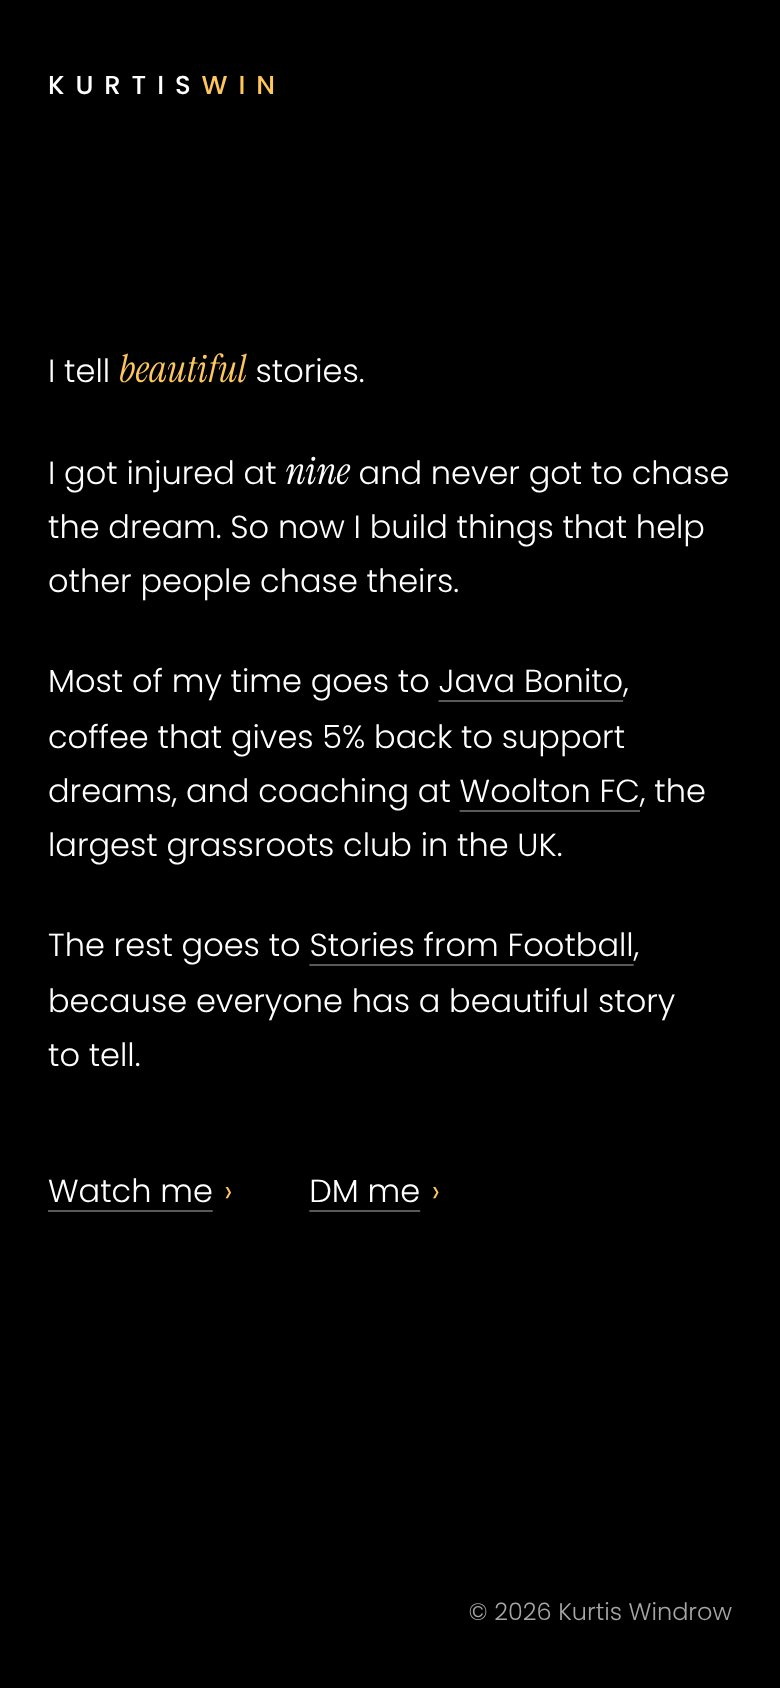
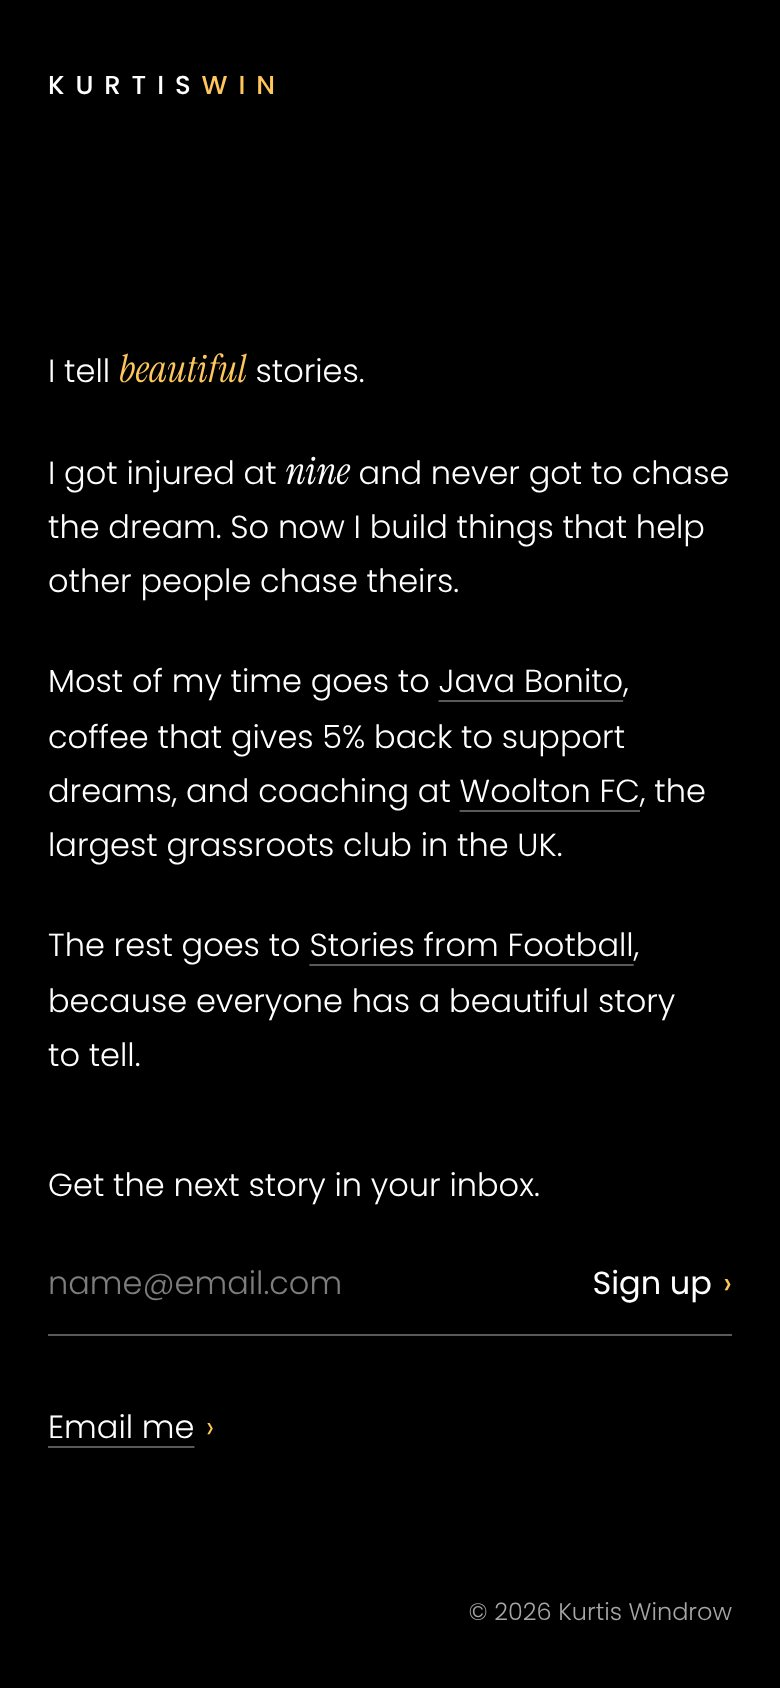
Simple letter idea: email sign-up and Email me link
Claude-Session: https://claude.ai/code/session_01YWeD3rSu7rVPaxhd9cXvfE

diff --git a/kurtis-site/design-board/idea-simple.html b/kurtis-site/design-board/idea-simple.html
@@ -37,7 +37,7 @@ main p{margin:0 0 1.45em;text-wrap:pretty}
 main a{text-decoration:underline;text-decoration-color:var(--line);text-decoration-thickness:1px;text-underline-offset:4px;transition:text-decoration-color .2s,color .2s}
 main a:hover{text-decoration-color:var(--gold)}
 
-.contact{display:flex;gap:2.4em;margin-top:2.6em}
+.contact{display:flex;gap:2.4em}
 .contact a{text-decoration:underline;text-decoration-color:var(--line);text-underline-offset:4px;transition:text-decoration-color .2s}
 .contact a span{display:inline-block;margin-left:.35em;text-decoration:none;color:var(--gold);transition:transform .25s cubic-bezier(.2,.7,.2,1)}
 .contact a:hover{text-decoration-color:var(--gold)}
@@ -52,6 +52,19 @@ footer{margin-top:auto;padding-top:64px;align-self:flex-end;font-size:12px;color
 
 .back{position:fixed;left:max(12px,env(safe-area-inset-left,0px));bottom:calc(12px + env(safe-area-inset-bottom,0px));font-size:11px;letter-spacing:.08em;text-transform:uppercase;
   background:rgba(30,30,30,.85);padding:8px 12px;border-radius:999px;text-decoration:none;color:var(--muted);z-index:5}
+
+.join{margin-top:2.4em;max-width:24em}
+.join label{display:block;margin-bottom:.6em}
+.join-row{display:flex;align-items:center;gap:1.2em;border-bottom:1px solid var(--line);transition:border-color .2s}
+.join-row:focus-within{border-color:var(--gold)}
+.join input{flex:1 1 0;min-width:0;height:48px;background:transparent;border:0;color:var(--text);font:inherit;padding:0}
+.join input::placeholder{color:#7d7d7d}
+.join input:focus{outline:none}
+.join button{flex:none;background:none;border:0;color:var(--text);font:inherit;font-weight:400;cursor:pointer;padding:12px 0}
+.join button span,.contact a span{display:inline-block;margin-left:.35em;color:var(--gold);transition:transform .25s cubic-bezier(.2,.7,.2,1)}
+.join button:hover span{transform:translateX(3px)}
+.ok{margin:1em 0 0;color:var(--gold)}
+.contact{margin-top:2em}
 </style>
 </head>
 <body>
@@ -62,13 +75,23 @@ footer{margin-top:auto;padding-top:64px;align-self:flex-end;font-size:12px;color
   <p class="rise d2">I got injured at <span class="serif">nine</span> and never got to chase the dream. So now I build things that help other people chase theirs.</p>
   <p class="rise d3">Most of my time goes to <a href="https://www.javabonito.co.uk" target="_blank" rel="noopener">Java Bonito</a>, coffee that gives 5% back to support dreams, and coaching at <a href="https://www.wooltonfc.co.uk" target="_blank" rel="noopener">Woolton FC</a>, the largest grassroots club in the UK.</p>
   <p class="rise d4">The rest goes to <a href="https://www.storiesfromfootball.co.uk" target="_blank" rel="noopener">Stories from Football</a>, because everyone has a beautiful story to tell.</p>
-  <div class="contact rise d5">
-    <a href="https://youtube.com/@kurtiswin" target="_blank" rel="noopener">Watch me<span aria-hidden="true">›</span></a>
-    <a href="https://www.instagram.com/kurtiswin" target="_blank" rel="noopener">DM me<span aria-hidden="true">›</span></a>
+  <form class="join rise d5" data-kit>
+    <label for="s-email">Get the next story in your inbox.</label>
+    <div class="join-row">
+      <input id="s-email" type="email" name="email_address" placeholder="name@email.com" autocomplete="email" required>
+      <button type="submit">Sign up<span aria-hidden="true">›</span></button>
+    </div>
+  </form>
+  <p class="ok" hidden>You're in. Check your inbox to confirm.</p>
+  <div class="contact rise d6">
+    <a href="mailto:kurtis@javabonito.co.uk">Email me<span aria-hidden="true">›</span></a>
   </div>
 </main>
 
 <footer class="rise d6">© 2026 Kurtis Windrow</footer>
 <a class="back" href="index.html">← World Building</a>
+<script>
+document.querySelectorAll('form[data-kit]').forEach(function(f){f.addEventListener('submit',function(e){e.preventDefault();f.hidden=true;f.nextElementSibling.hidden=false;});});
+</script>
 </body>
 </html>

diff --git a/skills/kurtis-design-skill-personal-brand/assets/reference/idea-simple.html b/skills/kurtis-design-skill-personal-brand/assets/reference/idea-simple.html
@@ -37,7 +37,7 @@ main p{margin:0 0 1.45em;text-wrap:pretty}
 main a{text-decoration:underline;text-decoration-color:var(--line);text-decoration-thickness:1px;text-underline-offset:4px;transition:text-decoration-color .2s,color .2s}
 main a:hover{text-decoration-color:var(--gold)}
 
-.contact{display:flex;gap:2.4em;margin-top:2.6em}
+.contact{display:flex;gap:2.4em}
 .contact a{text-decoration:underline;text-decoration-color:var(--line);text-underline-offset:4px;transition:text-decoration-color .2s}
 .contact a span{display:inline-block;margin-left:.35em;text-decoration:none;color:var(--gold);transition:transform .25s cubic-bezier(.2,.7,.2,1)}
 .contact a:hover{text-decoration-color:var(--gold)}
@@ -52,6 +52,19 @@ footer{margin-top:auto;padding-top:64px;align-self:flex-end;font-size:12px;color
 
 .back{position:fixed;left:max(12px,env(safe-area-inset-left,0px));bottom:calc(12px + env(safe-area-inset-bottom,0px));font-size:11px;letter-spacing:.08em;text-transform:uppercase;
   background:rgba(30,30,30,.85);padding:8px 12px;border-radius:999px;text-decoration:none;color:var(--muted);z-index:5}
+
+.join{margin-top:2.4em;max-width:24em}
+.join label{display:block;margin-bottom:.6em}
+.join-row{display:flex;align-items:center;gap:1.2em;border-bottom:1px solid var(--line);transition:border-color .2s}
+.join-row:focus-within{border-color:var(--gold)}
+.join input{flex:1 1 0;min-width:0;height:48px;background:transparent;border:0;color:var(--text);font:inherit;padding:0}
+.join input::placeholder{color:#7d7d7d}
+.join input:focus{outline:none}
+.join button{flex:none;background:none;border:0;color:var(--text);font:inherit;font-weight:400;cursor:pointer;padding:12px 0}
+.join button span,.contact a span{display:inline-block;margin-left:.35em;color:var(--gold);transition:transform .25s cubic-bezier(.2,.7,.2,1)}
+.join button:hover span{transform:translateX(3px)}
+.ok{margin:1em 0 0;color:var(--gold)}
+.contact{margin-top:2em}
 </style>
 </head>
 <body>
@@ -62,13 +75,23 @@ footer{margin-top:auto;padding-top:64px;align-self:flex-end;font-size:12px;color
   <p class="rise d2">I got injured at <span class="serif">nine</span> and never got to chase the dream. So now I build things that help other people chase theirs.</p>
   <p class="rise d3">Most of my time goes to <a href="https://www.javabonito.co.uk" target="_blank" rel="noopener">Java Bonito</a>, coffee that gives 5% back to support dreams, and coaching at <a href="https://www.wooltonfc.co.uk" target="_blank" rel="noopener">Woolton FC</a>, the largest grassroots club in the UK.</p>
   <p class="rise d4">The rest goes to <a href="https://www.storiesfromfootball.co.uk" target="_blank" rel="noopener">Stories from Football</a>, because everyone has a beautiful story to tell.</p>
-  <div class="contact rise d5">
-    <a href="https://youtube.com/@kurtiswin" target="_blank" rel="noopener">Watch me<span aria-hidden="true">›</span></a>
-    <a href="https://www.instagram.com/kurtiswin" target="_blank" rel="noopener">DM me<span aria-hidden="true">›</span></a>
+  <form class="join rise d5" data-kit>
+    <label for="s-email">Get the next story in your inbox.</label>
+    <div class="join-row">
+      <input id="s-email" type="email" name="email_address" placeholder="name@email.com" autocomplete="email" required>
+      <button type="submit">Sign up<span aria-hidden="true">›</span></button>
+    </div>
+  </form>
+  <p class="ok" hidden>You're in. Check your inbox to confirm.</p>
+  <div class="contact rise d6">
+    <a href="mailto:kurtis@javabonito.co.uk">Email me<span aria-hidden="true">›</span></a>
   </div>
 </main>
 
 <footer class="rise d6">© 2026 Kurtis Windrow</footer>
 <a class="back" href="index.html">← World Building</a>
+<script>
+document.querySelectorAll('form[data-kit]').forEach(function(f){f.addEventListener('submit',function(e){e.preventDefault();f.hidden=true;f.nextElementSibling.hidden=false;});});
+</script>
 </body>
 </html>
